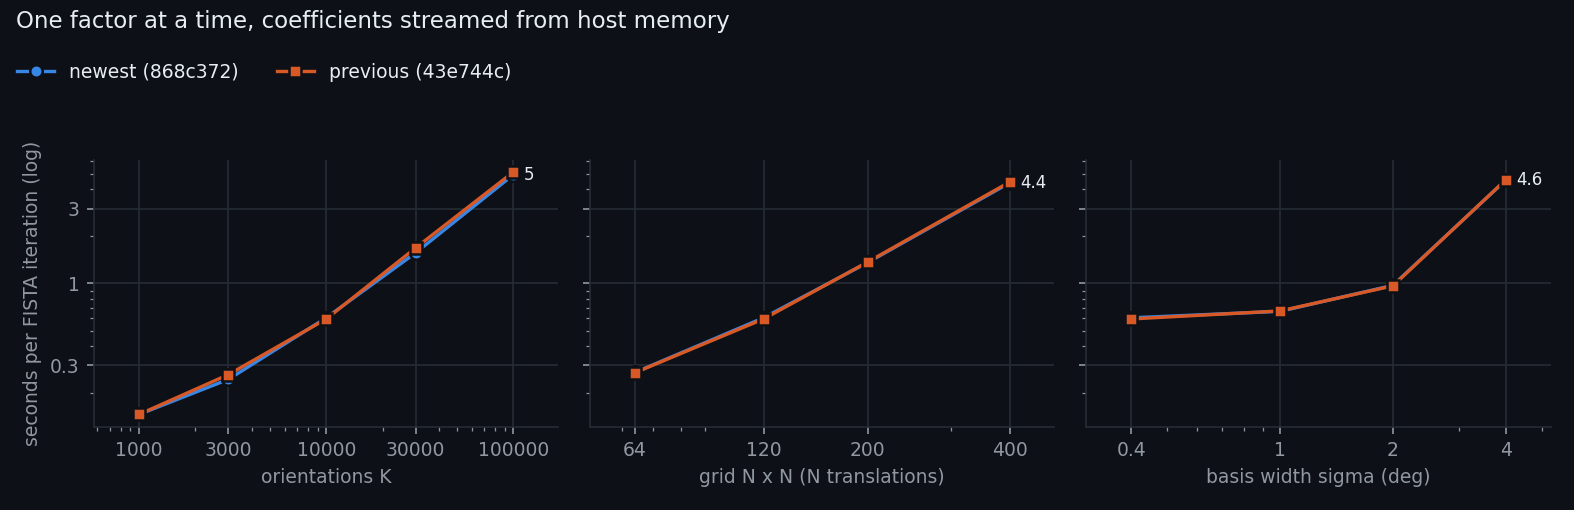
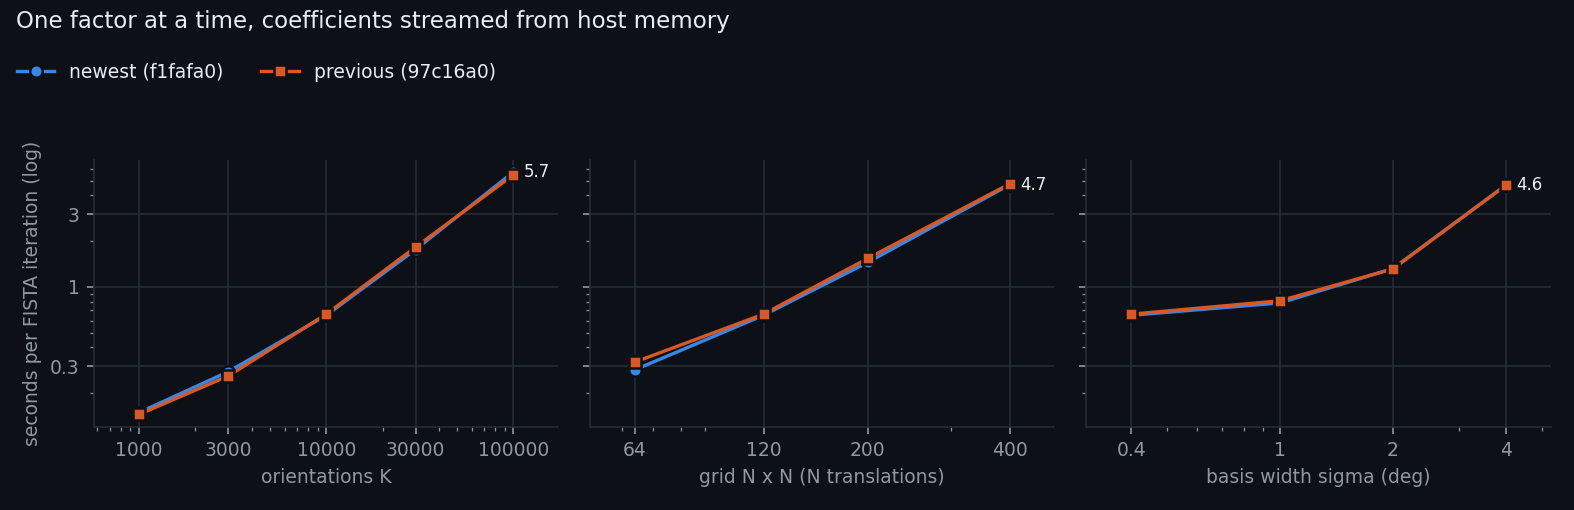
Benchmarks: 6a38c0b, 97c16a0 (4 sigma cut) and f1fafa0 (Gauss-Legendre quadrature), A40
Steady FISTA s/it, branch f1fafa0 vs main 97c16a0: 0.95-1.06x in every case (build +0.5-1.5 s).
The 4 sigma cut (97c16a0 vs 6a38c0b): sigma 0.4 +0-4 %, sigma 1 +18-21 %, sigma 2 +44 %,
K 100000 sigma 1 +30-52 % (fewer PF batches fit), sigma 4 (dense) unchanged.

diff --git a/benchmarks/report.py b/benchmarks/report.py
@@ -22,6 +22,12 @@ LABELS = {
     "5a402f0": "sparse PF matrix (`pf_mode=\"auto\"`)",
     "2b2b9b5": "field-of-view support constraint in FISTA",
     "cce2840": "64-bit indexing in the FISTA, prox and PF kernels",
+    "f1fafa0": "Gauss-Legendre quadrature over the (omega, eta) bins, the fewest nodes that keep every PF entry within "
+               "5 % of the peak (here 4 nodes at sigma 0.4 deg, 2 at 1 deg, 1 from 1.3 deg); candidate counts of "
+               "generated PF batches computed once",
+    "97c16a0": "PF Gaussians cut at 4 sigma (was 3; results change by ~0.8 %; 1.78 times the non-zeros)",
+    "6a38c0b": "main of 2026-10-26: pixel-footprint (trapezoid) projector kernel by default (results differ by ~2 %); "
+               "local basis, ODF basis, structure factors, Bragg-edge operator (not in these cases)",
     "18a7a06": "fused FISTA update: 2 coefficient arrays instead of 4",
     "56fe181": "FISTA coefficients streamed from host memory",
     "fbc8934": "NumPy API, (K, Ny, Nx) layout",

diff --git a/benchmarks/RESULTS.md b/benchmarks/RESULTS.md
@@ -10,6 +10,9 @@ Speed and peak memory of diffractom's texture-tomography reconstruction across v
 
 | version | date | what changed |
 |---|---|---|
+| `f1fafa0` | 2026-10-29 | Gauss-Legendre quadrature over the (omega, eta) bins, the fewest nodes that keep every PF entry within 5 % of the peak (here 4 nodes at sigma 0.4 deg, 2 at 1 deg, 1 from 1.3 deg); candidate counts of generated PF batches computed once |
+| `97c16a0` | 2026-10-29 | PF Gaussians cut at 4 sigma (was 3; results change by ~0.8 %; 1.78 times the non-zeros) |
+| `6a38c0b` | 2026-10-26 | main of 2026-10-26: pixel-footprint (trapezoid) projector kernel by default (results differ by ~2 %); local basis, ODF basis, structure factors, Bragg-edge operator (not in these cases) |
 | `868c372` | 2026-10-02 | FISTA (GPU arrays and streamed): next forward pass inside the adjoint pass; fused residual/norm/clip; PF forward skips empty rows (iterates unchanged) |
 | `43e744c` | 2026-10-02 | streamed FISTA: next forward pass inside the adjoint pass; fused residual/norm/clip; PF forward skips empty rows (iterates unchanged) |
 | `2c5f3f3` | 2026-10-02 | Fourier-slice projector (projector="fft"), the default above 400 x 400 pixels (results differ by ~1 %) |
@@ -25,47 +28,38 @@ Speed and peak memory of diffractom's texture-tomography reconstruction across v
 | `5a402f0` | 2026-09-28 | sparse PF matrix (`pf_mode="auto"`) |
 | `bec0dc7` | 2026-09-28 | before the speed-ups: dense PF matrix only |
 
-## Newest (`868c372`) against the version before it (`43e744c`)
+## Newest (`f1fafa0`) against the version before it (`97c16a0`)
 
 Seconds per FISTA iteration, steady state (without the first iteration, which includes the setup) where both versions recorded it (marked s), else the average of the two iterations; speed-up = previous / newest (below 1: slower). Single short runs: differences within about 10 % are noise.
 
 | case | mode | previous | newest | speed-up |
 |---|---|---:|---:|---:|
-| K = 1000, 120 x 120, sigma = 0.4 | gpu | 0.0685 | 0.0504 | 1.36x s |
-| K = 3000, 120 x 120, sigma = 0.4 | gpu | 0.143 | 0.105 | 1.37x s |
-| K = 10000, 64 x 64, sigma = 0.4 | gpu | 0.192 | 0.139 | 1.38x s |
-| K = 10000, 120 x 120, sigma = 0.4 | gpu | 0.443 | 0.326 | 1.36x s |
-| K = 10000, 120 x 120, sigma = 1 | gpu | 0.506 | 0.375 | 1.35x s |
-| K = 10000, 120 x 120, sigma = 2 | gpu | 0.829 | 0.6 | 1.38x s |
-| K = 10000, 120 x 120, sigma = 4 | gpu | 4.44 | 3.32 | 1.34x s |
-| K = 10000, 200 x 200, sigma = 0.4 | gpu | 1.03 | 0.755 | 1.36x s |
-| K = 10000, 400 x 400, sigma = 0.4 | gpu | 3.47 | 2.45 | 1.42x s |
-| K = 10000, 400 x 400, sigma = 2 | gpu | 4.77 | 3.45 | 1.38x s |
-| K = 10000, 400 x 400, sigma = 4 | gpu | 11.1 | 8.13 | 1.36x s |
+| K = 1000, 120 x 120, sigma = 0.4 | gpu | 0.055 | 0.0559 | 0.98x s |
+| K = 3000, 120 x 120, sigma = 0.4 | gpu | 0.11 | 0.112 | 0.99x s |
+| K = 10000, 64 x 64, sigma = 0.4 | gpu | 0.148 | 0.151 | 0.98x s |
+| K = 10000, 120 x 120, sigma = 0.4 | gpu | 0.356 | 0.363 | 0.98x s |
+| K = 10000, 120 x 120, sigma = 1 | gpu | 0.473 | 0.483 | 0.98x s |
+| K = 10000, 120 x 120, sigma = 2 | gpu | 0.904 | 0.904 | 1.00x s |
+| K = 10000, 120 x 120, sigma = 4 | gpu | 3.4 | 3.4 | 1.00x s |
+| K = 10000, 200 x 200, sigma = 0.4 | gpu | 0.82 | 0.832 | 0.98x s |
+| K = 10000, 400 x 400, sigma = 0.4 | gpu | 2.76 | 2.75 | 1.00x s |
 | K = 10000, 600 x 600, sigma = 0.4 | gpu | *array > largest GPU buffer* | *array > largest GPU buffer* |  |
-| K = 10000, 600 x 600, sigma = 2 | gpu | *array > largest GPU buffer* | *array > largest GPU buffer* |  |
-| K = 10000, 600 x 600, sigma = 4 | gpu | *skipped* | *skipped* |  |
-| K = 30000, 120 x 120, sigma = 0.4 | gpu | 1.31 | 0.961 | 1.36x s |
-| K = 100000, 120 x 120, sigma = 0.4 | gpu | 4.3 | 3.14 | 1.37x s |
-| K = 100000, 120 x 120, sigma = 1 | gpu | 5.6 | 4.03 | 1.39x s |
-| K = 1000, 120 x 120, sigma = 0.4 | stream | 0.0583 | 0.0579 | 1.01x s |
-| K = 3000, 120 x 120, sigma = 0.4 | stream | 0.115 | 0.114 | 1.00x s |
-| K = 10000, 64 x 64, sigma = 0.4 | stream | 0.144 | 0.145 | 1.00x s |
-| K = 10000, 120 x 120, sigma = 0.4 | stream | 0.337 | 0.337 | 1.00x s |
-| K = 10000, 120 x 120, sigma = 1 | stream | 0.386 | 0.385 | 1.00x s |
-| K = 10000, 120 x 120, sigma = 2 | stream | 0.608 | 0.61 | 1.00x s |
-| K = 10000, 120 x 120, sigma = 4 | stream | 3.36 | 3.34 | 1.01x s |
-| K = 10000, 200 x 200, sigma = 0.4 | stream | 0.779 | 0.779 | 1.00x s |
-| K = 10000, 400 x 400, sigma = 0.4 | stream | 2.49 | 2.49 | 1.00x s |
-| K = 10000, 400 x 400, sigma = 2 | stream | 3.4 | 3.39 | 1.00x s |
-| K = 10000, 400 x 400, sigma = 4 | stream | 8.28 | 8.24 | 1.01x s |
-| K = 10000, 600 x 600, sigma = 0.4 | stream | 3.49 | 3.42 | 1.02x s |
-| K = 10000, 600 x 600, sigma = 2 | stream | 4.45 | 4.44 | 1.00x s |
-| K = 10000, 600 x 600, sigma = 4 | stream | 10.6 | 10.5 | 1.01x s |
-| K = 20000, 1200 x 1200, sigma = 0.4 | stream | *out of memory* | 44.4 |  |
-| K = 30000, 120 x 120, sigma = 0.4 | stream | 0.977 | 0.974 | 1.00x s |
-| K = 100000, 120 x 120, sigma = 0.4 | stream | 3.18 | 3.18 | 1.00x s |
-| K = 100000, 120 x 120, sigma = 1 | stream | 3.9 | 3.89 | 1.00x s |
+| K = 30000, 120 x 120, sigma = 0.4 | gpu | 1.06 | 1.07 | 0.98x s |
+| K = 100000, 120 x 120, sigma = 0.4 | gpu | 3.47 | 3.53 | 0.98x s |
+| K = 100000, 120 x 120, sigma = 1 | gpu | 6.57 | 6.38 | 1.03x s |
+| K = 1000, 120 x 120, sigma = 0.4 | stream | 0.0619 | 0.0632 | 0.98x s |
+| K = 3000, 120 x 120, sigma = 0.4 | stream | 0.121 | 0.123 | 0.98x s |
+| K = 10000, 64 x 64, sigma = 0.4 | stream | 0.154 | 0.157 | 0.98x s |
+| K = 10000, 120 x 120, sigma = 0.4 | stream | 0.399 | 0.375 | 1.06x s |
+| K = 10000, 120 x 120, sigma = 1 | stream | 0.483 | 0.488 | 0.99x s |
+| K = 10000, 120 x 120, sigma = 2 | stream | 0.912 | 0.913 | 1.00x s |
+| K = 10000, 120 x 120, sigma = 4 | stream | 3.42 | 3.42 | 1.00x s |
+| K = 10000, 200 x 200, sigma = 0.4 | stream | 0.845 | 0.854 | 0.99x s |
+| K = 10000, 400 x 400, sigma = 0.4 | stream | 2.82 | 2.78 | 1.01x s |
+| K = 10000, 600 x 600, sigma = 0.4 | stream | 3.74 | 3.66 | 1.02x s |
+| K = 30000, 120 x 120, sigma = 0.4 | stream | 1.07 | 1.12 | 0.95x s |
+| K = 100000, 120 x 120, sigma = 0.4 | stream | 3.49 | 3.55 | 0.98x s |
+| K = 100000, 120 x 120, sigma = 1 | stream | 5.44 | 5.61 | 0.97x s |
 
 ## Every version on the base case
 
@@ -256,6 +250,81 @@ The time per iteration above includes a one-time setup in the first of the two F
 | `868c372` | K = 10000, 600 x 600, sigma = 2 | stream | 11.7 | 4.44 |
 | `868c372` | K = 10000, 600 x 600, sigma = 4 | stream | 23.6 | 10.5 |
 | `868c372` | K = 20000, 1200 x 1200, sigma = 0.4 | stream | 55.9 | 32.7 |
+| `6a38c0b` | K = 10000, 64 x 64, sigma = 0.4 | gpu | 0.309 | 0.143 |
+| `6a38c0b` | K = 10000, 64 x 64, sigma = 0.4 | stream | 0.465 | 0.149 |
+| `6a38c0b` | K = 1000, 120 x 120, sigma = 0.4 | gpu | 0.112 | 0.0537 |
+| `6a38c0b` | K = 1000, 120 x 120, sigma = 0.4 | stream | 0.264 | 0.0621 |
+| `6a38c0b` | K = 3000, 120 x 120, sigma = 0.4 | gpu | 0.231 | 0.109 |
+| `6a38c0b` | K = 3000, 120 x 120, sigma = 0.4 | stream | 0.427 | 0.118 |
+| `6a38c0b` | K = 10000, 120 x 120, sigma = 0.4 | gpu | 0.726 | 0.35 |
+| `6a38c0b` | K = 10000, 120 x 120, sigma = 0.4 | stream | 1.22 | 0.361 |
+| `6a38c0b` | K = 10000, 120 x 120, sigma = 1 | gpu | 0.817 | 0.4 |
+| `6a38c0b` | K = 10000, 120 x 120, sigma = 1 | stream | 1.16 | 0.412 |
+| `6a38c0b` | K = 10000, 120 x 120, sigma = 2 | gpu | 1.32 | 0.627 |
+| `6a38c0b` | K = 10000, 120 x 120, sigma = 2 | stream | 1.66 | 0.633 |
+| `6a38c0b` | K = 10000, 120 x 120, sigma = 4 | gpu | 6.71 | 3.38 |
+| `6a38c0b` | K = 10000, 120 x 120, sigma = 4 | stream | 6.99 | 3.4 |
+| `6a38c0b` | K = 30000, 120 x 120, sigma = 0.4 | gpu | 2.15 | 1.03 |
+| `6a38c0b` | K = 30000, 120 x 120, sigma = 0.4 | stream | 2.89 | 1.04 |
+| `6a38c0b` | K = 100000, 120 x 120, sigma = 0.4 | gpu | 7.08 | 3.39 |
+| `6a38c0b` | K = 100000, 120 x 120, sigma = 0.4 | stream | 9.06 | 3.41 |
+| `6a38c0b` | K = 100000, 120 x 120, sigma = 1 | gpu | 9.25 | 4.32 |
+| `6a38c0b` | K = 100000, 120 x 120, sigma = 1 | stream | 10.9 | 4.17 |
+| `6a38c0b` | K = 10000, 200 x 200, sigma = 0.4 | gpu | 1.69 | 0.805 |
+| `6a38c0b` | K = 10000, 200 x 200, sigma = 0.4 | stream | 2.5 | 0.84 |
+| `6a38c0b` | K = 10000, 400 x 400, sigma = 0.4 | gpu | 5.94 | 2.76 |
+| `6a38c0b` | K = 10000, 400 x 400, sigma = 0.4 | stream | 8.49 | 2.79 |
+| `6a38c0b` | K = 10000, 600 x 600, sigma = 0.4 | stream | 10.9 | 3.87 |
+| `97c16a0` | K = 10000, 64 x 64, sigma = 0.4 | gpu | 0.316 | 0.148 |
+| `97c16a0` | K = 10000, 64 x 64, sigma = 0.4 | stream | 0.517 | 0.154 |
+| `97c16a0` | K = 1000, 120 x 120, sigma = 0.4 | gpu | 0.115 | 0.055 |
+| `97c16a0` | K = 1000, 120 x 120, sigma = 0.4 | stream | 0.263 | 0.0619 |
+| `97c16a0` | K = 3000, 120 x 120, sigma = 0.4 | gpu | 0.235 | 0.11 |
+| `97c16a0` | K = 3000, 120 x 120, sigma = 0.4 | stream | 0.45 | 0.121 |
+| `97c16a0` | K = 10000, 120 x 120, sigma = 0.4 | gpu | 0.739 | 0.356 |
+| `97c16a0` | K = 10000, 120 x 120, sigma = 0.4 | stream | 1.1 | 0.399 |
+| `97c16a0` | K = 10000, 120 x 120, sigma = 1 | gpu | 0.959 | 0.473 |
+| `97c16a0` | K = 10000, 120 x 120, sigma = 1 | stream | 1.32 | 0.483 |
+| `97c16a0` | K = 10000, 120 x 120, sigma = 2 | gpu | 1.71 | 0.904 |
+| `97c16a0` | K = 10000, 120 x 120, sigma = 2 | stream | 2.03 | 0.912 |
+| `97c16a0` | K = 10000, 120 x 120, sigma = 4 | gpu | 6.7 | 3.4 |
+| `97c16a0` | K = 10000, 120 x 120, sigma = 4 | stream | 7.05 | 3.42 |
+| `97c16a0` | K = 30000, 120 x 120, sigma = 0.4 | gpu | 2.19 | 1.06 |
+| `97c16a0` | K = 30000, 120 x 120, sigma = 0.4 | stream | 3.23 | 1.07 |
+| `97c16a0` | K = 100000, 120 x 120, sigma = 0.4 | gpu | 7.21 | 3.47 |
+| `97c16a0` | K = 100000, 120 x 120, sigma = 0.4 | stream | 9.18 | 3.49 |
+| `97c16a0` | K = 100000, 120 x 120, sigma = 1 | gpu | 14.0 | 6.57 |
+| `97c16a0` | K = 100000, 120 x 120, sigma = 1 | stream | 13.8 | 5.44 |
+| `97c16a0` | K = 10000, 200 x 200, sigma = 0.4 | gpu | 1.71 | 0.82 |
+| `97c16a0` | K = 10000, 200 x 200, sigma = 0.4 | stream | 2.79 | 0.845 |
+| `97c16a0` | K = 10000, 400 x 400, sigma = 0.4 | gpu | 5.96 | 2.76 |
+| `97c16a0` | K = 10000, 400 x 400, sigma = 0.4 | stream | 8.45 | 2.82 |
+| `97c16a0` | K = 10000, 600 x 600, sigma = 0.4 | stream | 11.8 | 3.74 |
+| `f1fafa0` | K = 10000, 64 x 64, sigma = 0.4 | gpu | 0.321 | 0.151 |
+| `f1fafa0` | K = 10000, 64 x 64, sigma = 0.4 | stream | 0.475 | 0.157 |
+| `f1fafa0` | K = 1000, 120 x 120, sigma = 0.4 | gpu | 0.116 | 0.0559 |
+| `f1fafa0` | K = 1000, 120 x 120, sigma = 0.4 | stream | 0.265 | 0.0632 |
+| `f1fafa0` | K = 3000, 120 x 120, sigma = 0.4 | gpu | 0.237 | 0.112 |
+| `f1fafa0` | K = 3000, 120 x 120, sigma = 0.4 | stream | 0.457 | 0.123 |
+| `f1fafa0` | K = 10000, 120 x 120, sigma = 0.4 | gpu | 0.748 | 0.363 |
+| `f1fafa0` | K = 10000, 120 x 120, sigma = 0.4 | stream | 1.13 | 0.375 |
+| `f1fafa0` | K = 10000, 120 x 120, sigma = 1 | gpu | 0.963 | 0.483 |
+| `f1fafa0` | K = 10000, 120 x 120, sigma = 1 | stream | 1.29 | 0.488 |
+| `f1fafa0` | K = 10000, 120 x 120, sigma = 2 | gpu | 1.71 | 0.904 |
+| `f1fafa0` | K = 10000, 120 x 120, sigma = 2 | stream | 2.05 | 0.913 |
+| `f1fafa0` | K = 10000, 120 x 120, sigma = 4 | gpu | 6.71 | 3.4 |
+| `f1fafa0` | K = 10000, 120 x 120, sigma = 4 | stream | 7.02 | 3.42 |
+| `f1fafa0` | K = 30000, 120 x 120, sigma = 0.4 | gpu | 2.22 | 1.07 |
+| `f1fafa0` | K = 30000, 120 x 120, sigma = 0.4 | stream | 2.93 | 1.12 |
+| `f1fafa0` | K = 100000, 120 x 120, sigma = 0.4 | gpu | 7.3 | 3.53 |
+| `f1fafa0` | K = 100000, 120 x 120, sigma = 0.4 | stream | 9.78 | 3.55 |
+| `f1fafa0` | K = 100000, 120 x 120, sigma = 1 | gpu | 13.5 | 6.38 |
+| `f1fafa0` | K = 100000, 120 x 120, sigma = 1 | stream | 14.0 | 5.61 |
+| `f1fafa0` | K = 10000, 200 x 200, sigma = 0.4 | gpu | 1.83 | 0.832 |
+| `f1fafa0` | K = 10000, 200 x 200, sigma = 0.4 | stream | 2.56 | 0.854 |
+| `f1fafa0` | K = 10000, 400 x 400, sigma = 0.4 | gpu | 6.07 | 2.75 |
+| `f1fafa0` | K = 10000, 400 x 400, sigma = 0.4 | stream | 8.42 | 2.78 |
+| `f1fafa0` | K = 10000, 600 x 600, sigma = 0.4 | stream | 11.1 | 3.66 |
 
 ## Arrays on the GPU
 
@@ -270,6 +339,9 @@ Seconds per FISTA iteration; the fastest version per column in bold; * the base 
 
 | version | 1000 | 3000 | 10000 * | 30000 | 100000 |
 |---|---:|---:|---:|---:|---:|
+| `f1fafa0` | 0.0877 | 0.166 | 0.507 | 1.48 | 4.83 |
+| `97c16a0` | 0.0857 | 0.168 | 0.499 | 1.46 | 4.75 |
+| `6a38c0b` | 0.0849 | 0.176 | 0.5 | 1.43 | 4.66 |
 | `868c372` | **0.0807** | **0.159** | 0.471 | 1.35 | 4.37 |
 | `43e744c` | 0.0843 | 0.161 | **0.467** | **1.34** | 4.35 |
 | `2c5f3f3` | 0.0895 | 0.164 | 0.47 | 1.35 | **4.35** |
@@ -289,6 +361,9 @@ Seconds per FISTA iteration; the fastest version per column in bold; * the base 
 
 | version | 64 | 120 * | 200 | 400 |
 |---|---:|---:|---:|---:|
+| `f1fafa0` | 0.223 | 0.507 | 1.19 | 3.88 |
+| `97c16a0` | 0.224 | 0.499 | 1.14 | 3.85 |
+| `6a38c0b` | 0.216 | 0.5 | 1.12 | 3.84 |
 | `868c372` | **0.211** | 0.471 | 1.05 | 3.5 |
 | `43e744c` | 0.215 | **0.467** | **1.05** | 3.49 |
 | `2c5f3f3` | 0.214 | 0.47 | 1.06 | 3.58 |
@@ -308,6 +383,9 @@ Seconds per FISTA iteration; the fastest version per column in bold; * the base 
 
 | version | 0.4 deg * | 1 deg | 2 deg | 4 deg |
 |---|---:|---:|---:|---:|
+| `f1fafa0` | 0.507 | 0.665 | 1.2 | 4.52 |
+| `97c16a0` | 0.499 | 0.651 | 1.19 | 4.52 |
+| `6a38c0b` | 0.5 | 0.564 | 0.883 | 4.51 |
 | `868c372` | 0.471 | **0.524** | **0.842** | 4.43 |
 | `43e744c` | **0.467** | 0.528 | 0.85 | 4.43 |
 | `2c5f3f3` | 0.47 | 0.527 | 0.931 | **4.42** |
@@ -336,8 +414,11 @@ Seconds per FISTA iteration; the fastest version per column in bold; * the base 
 
 | version | 1000 | 3000 | 10000 * | 30000 | 100000 |
 |---|---:|---:|---:|---:|---:|
-| `868c372` | 0.146 | **0.244** | 0.603 | **1.57** | **4.95** |
-| `43e744c` | **0.146** | 0.262 | **0.593** | 1.68 | 5.15 |
+| `f1fafa0` | 0.149 | 0.277 | 0.65 | 1.76 | 5.7 |
+| `97c16a0` | **0.145** | 0.259 | 0.661 | 1.83 | 5.46 |
+| `6a38c0b` | 0.145 | **0.239** | 0.696 | 1.7 | 5.41 |
+| `868c372` | 0.146 | 0.244 | 0.603 | **1.57** | **4.95** |
+| `43e744c` | 0.146 | 0.262 | **0.593** | 1.68 | 5.15 |
 | `2c5f3f3` | 0.173 | 0.268 | 0.661 | 1.86 | 5.34 |
 | `8540fc1` | 0.28 | 0.3 | 0.728 | 1.84 | 5.53 |
 | `9702663` | 0.224 | 0.322 | 0.721 | 1.97 | 5.93 |
@@ -349,6 +430,9 @@ Seconds per FISTA iteration; the fastest version per column in bold; * the base 
 
 | version | 64 | 120 * | 200 | 400 |
 |---|---:|---:|---:|---:|
+| `f1fafa0` | 0.285 | 0.65 | 1.45 | 4.7 |
+| `97c16a0` | 0.32 | 0.661 | 1.54 | 4.75 |
+| `6a38c0b` | 0.273 | 0.696 | 1.43 | 4.73 |
 | `868c372` | 0.27 | 0.603 | **1.36** | **4.38** |
 | `43e744c` | **0.269** | **0.593** | 1.37 | 4.43 |
 | `2c5f3f3` | 0.297 | 0.661 | 1.5 | 4.76 |
@@ -362,6 +446,9 @@ Seconds per FISTA iteration; the fastest version per column in bold; * the base 
 
 | version | 0.4 deg * | 1 deg | 2 deg | 4 deg |
 |---|---:|---:|---:|---:|
+| `f1fafa0` | 0.65 | 0.784 | 1.32 | 4.65 |
+| `97c16a0` | 0.661 | 0.81 | 1.31 | 4.66 |
+| `6a38c0b` | 0.696 | 0.684 | 1.01 | 4.63 |
 | `868c372` | 0.603 | **0.664** | 0.972 | **4.56** |
 | `43e744c` | **0.593** | 0.668 | **0.965** | 4.58 |
 | `2c5f3f3` | 0.661 | 0.702 | 1.06 | 4.56 |
@@ -382,6 +469,9 @@ Seconds per FISTA iteration; the fastest version per column in bold; * the base 
 
 | version | 1000 | 3000 | 10000 * | 30000 | 100000 |
 |---|---:|---:|---:|---:|---:|
+| `f1fafa0` | 3.1 | 3.6 | 5.2 | 10.3 | 29.3 |
+| `97c16a0` | 3.0 | 3.5 | 4.9 | 9.6 | 27.0 |
+| `6a38c0b` | 3.0 | 3.4 | 4.6 | **8.6** | **23.5** |
 | `868c372` | 3.0 | 3.4 | 4.6 | **8.6** | **23.5** |
 | `43e744c` | **2.2** | **2.7** | **4.3** | **8.6** | **23.5** |
 | `2c5f3f3` | **2.2** | **2.7** | **4.3** | **8.6** | **23.5** |
@@ -401,6 +491,9 @@ Seconds per FISTA iteration; the fastest version per column in bold; * the base 
 
 | version | 1000 | 3000 | 10000 * | 30000 | 100000 |
 |---|---:|---:|---:|---:|---:|
+| `f1fafa0` | 1.5 | 1.8 | 2.9 | 6.2 | 17.8 |
+| `97c16a0` | 1.4 | 1.7 | 2.9 | 6.2 | 17.8 |
+| `6a38c0b` | 1.4 | 1.7 | 2.9 | 6.2 | 17.8 |
 | `868c372` | 1.3 | 1.7 | 2.8 | 6.2 | 17.8 |
 | `43e744c` | 1.3 | 1.7 | 2.8 | 6.2 | 17.8 |
 | `2c5f3f3` | 1.3 | 1.7 | 2.8 | 6.1 | 17.8 |
@@ -420,6 +513,9 @@ Seconds per FISTA iteration; the fastest version per column in bold; * the base 
 
 | version | 1000 | 3000 | 10000 * | 30000 | 100000 |
 |---|---:|---:|---:|---:|---:|
+| `f1fafa0` | 3.2 | 3.8 | 4.8 | 7.0 | 14.8 |
+| `97c16a0` | 3.1 | 3.7 | 4.6 | 6.3 | 12.4 |
+| `6a38c0b` | 3.1 | 3.6 | 4.2 | 5.3 | 9.0 |
 | `868c372` | 3.1 | 3.6 | 4.2 | 5.3 | 9.0 |
 | `43e744c` | 3.1 | 3.6 | 4.2 | 5.3 | 9.0 |
 | `2c5f3f3` | **2.3** | 2.8 | 3.4 | **4.5** | **8.2** |
@@ -433,6 +529,9 @@ Seconds per FISTA iteration; the fastest version per column in bold; * the base 
 
 | version | 1000 | 3000 | 10000 * | 30000 | 100000 |
 |---|---:|---:|---:|---:|---:|
+| `f1fafa0` | 2.2 | 2.5 | 4.9 | 7.5 | 14.9 |
+| `97c16a0` | 2.1 | 2.4 | 4.9 | 7.4 | 14.9 |
+| `6a38c0b` | 2.1 | 2.4 | 4.9 | 7.3 | 14.8 |
 | `868c372` | 2.1 | 2.4 | 4.8 | 7.4 | 14.8 |
 | `43e744c` | 2.1 | 2.4 | 4.8 | 7.3 | 14.8 |
 | `2c5f3f3` | 2.1 | 2.4 | 4.8 | 7.4 | 14.8 |
@@ -448,6 +547,9 @@ Seconds per FISTA iteration (and how the PF matrix was applied: dense; sparse wi
 
 | version | K = 10000, 400 x 400, sigma = 2, gpu | K = 10000, 400 x 400, sigma = 2, stream | K = 10000, 400 x 400, sigma = 4, gpu | K = 10000, 400 x 400, sigma = 4, stream | K = 10000, 600 x 600, sigma = 0.4, gpu | K = 10000, 600 x 600, sigma = 0.4, stream | K = 10000, 600 x 600, sigma = 2, gpu | K = 10000, 600 x 600, sigma = 2, stream | K = 10000, 600 x 600, sigma = 4, gpu | K = 10000, 600 x 600, sigma = 4, stream | K = 20000, 1200 x 1200, sigma = 0.4, gpu | K = 20000, 1200 x 1200, sigma = 0.4, stream | K = 100000, 120 x 120, sigma = 1, gpu | K = 100000, 120 x 120, sigma = 1, stream |
 |---|---:|---:|---:|---:|---:|---:|---:|---:|---:|---:|---:|---:|---:|---:|
+| `f1fafa0` |  |  |  |  | *array > largest GPU buffer* | 6.2 (sparse, both) |  |  |  |  |  |  | 8.82 (generated, adjoint, 53 of 113 batches) | 8.47 (generated, adjoint, 91 of 113 batches) |
+| `97c16a0` |  |  |  |  | *array > largest GPU buffer* | 6.46 (sparse, both) |  |  |  |  |  |  | 9.1 (generated, adjoint, 55 of 106 batches) | 8.31 (generated, adjoint, 93 of 106 batches) |
+| `6a38c0b` |  |  |  |  | *array > largest GPU buffer* | 6.25 (sparse, both) |  |  |  |  |  |  | 6.02 (generated, adjoint, 90 of 98 batches) | 6.53 (sparse, adjoint) |
 | `868c372` | 4.78 (sparse, adjoint) | 5.49 (sparse, both) | 10.9 (dense) | 11.6 (dense) | *array > largest GPU buffer* | 5.56 (sparse, both) | *array > largest GPU buffer* | 6.9 (sparse, both) | *skipped* | 14.9 (dense) |  | 44.4 (sparse, both) | 5.67 (generated, adjoint, 92 of 98 batches) | 6.25 (sparse, adjoint) |
 | `43e744c` | 4.77 (sparse, adjoint) | 5.5 (sparse, both) | 11.0 (dense) | 11.9 (dense) | *array > largest GPU buffer* | 5.62 (sparse, both) | *array > largest GPU buffer* | 6.9 (sparse, both) | *skipped* | 15.0 (dense) |  | *out of memory* | 5.65 (generated, adjoint, 92 of 98 batches) | 6.27 (sparse, adjoint) |
 | `2c5f3f3` | 4.74 (sparse, adjoint) | 5.69 (sparse, both) | 11.0 (dense) | 11.8 (dense) | *array > largest GPU buffer* | 6.7 (sparse, both) | *array > largest GPU buffer* | 7.41 (sparse, both) | *skipped* | 15.3 (dense) |  | 50.5 (sparse, both) | 5.63 (generated, adjoint, 92 of 98 batches) | 6.1 (sparse, adjoint) |
@@ -463,6 +565,84 @@ Seconds per FISTA iteration (and how the PF matrix was applied: dense; sparse wi
 
 | version | mode | K | N | sigma | status | PF | build (s) | forward (s) | adjoint (s) | FISTA / it (s) | GPU (GiB) | host (GiB) |
 |---|---|---:|---:|---:|---|---|---:|---:|---:|---:|---:|---:|
+| `f1fafa0` | gpu | 1000 | 120 | 0.4 | ok | sparse, both | 2.24 | 0.0684 | 0.0317 | 0.0877 | 3.11 | 1.49 |
+| `f1fafa0` | gpu | 3000 | 120 | 0.4 | ok | sparse, both | 1.94 | 0.108 | 0.0644 | 0.166 | 3.63 | 1.77 |
+| `f1fafa0` | gpu | 10000 | 64 | 0.4 | ok | sparse, both | 2.37 | 0.141 | 0.0903 | 0.223 | 3.17 | 1.39 |
+| `f1fafa0` | gpu | 10000 | 120 | 0.4 | ok | sparse, both | 2.51 | 0.283 | 0.221 | 0.507 | 5.24 | 2.92 |
+| `f1fafa0` | gpu | 10000 | 120 | 1 | ok | sparse, both | 2.06 | 0.337 | 0.309 | 0.665 | 9.04 | 2.88 |
+| `f1fafa0` | gpu | 10000 | 120 | 2 | ok | sparse, both | 3.31 | 0.557 | 0.622 | 1.2 | 22.0 | 2.91 |
+| `f1fafa0` | gpu | 10000 | 120 | 4 | ok | dense | 1.38 | 2.21 | 2.26 | 4.52 | 5.89 | 2.86 |
+| `f1fafa0` | gpu | 10000 | 200 | 0.4 | ok | sparse, both | 2.38 | 0.615 | 0.497 | 1.19 | 9.07 | 6.32 |
+| `f1fafa0` | gpu | 10000 | 400 | 0.4 | ok | sparse, both | 2.25 | 2.02 | 1.61 | 3.88 | 25.4 | 21.1 |
+| `f1fafa0` | gpu | 10000 | 600 | 0.4 | oom | generated, none | 2.79 |  |  |  | 0.373 | 4.61 |
+| `f1fafa0` | gpu | 30000 | 120 | 0.4 | ok | sparse, both | 3.47 | 0.781 | 0.662 | 1.48 | 10.3 | 6.23 |
+| `f1fafa0` | gpu | 100000 | 120 | 0.4 | ok | sparse, both | 7.15 | 2.47 | 2.18 | 4.83 | 29.3 | 17.8 |
+| `f1fafa0` | gpu | 100000 | 120 | 1 | ok | generated, adjoint, 53 of 113 batches | 7.04 | 4.71 | 3.87 | 8.82 | 31.6 | 17.8 |
+| `f1fafa0` | stream | 1000 | 120 | 0.4 | ok | sparse, both | 1.72 | 0.383 | 0.175 | 0.149 | 3.21 | 2.21 |
+| `f1fafa0` | stream | 3000 | 120 | 0.4 | ok | sparse, both | 2.05 | 0.496 | 0.174 | 0.277 | 3.8 | 2.49 |
+| `f1fafa0` | stream | 10000 | 64 | 0.4 | ok | sparse, both | 2.59 | 0.353 | 0.151 | 0.285 | 3.05 | 1.92 |
+| `f1fafa0` | stream | 10000 | 120 | 0.4 | ok | sparse, both | 2.23 | 0.723 | 0.333 | 0.65 | 4.84 | 4.93 |
+| `f1fafa0` | stream | 10000 | 120 | 1 | ok | sparse, both | 2.28 | 0.77 | 0.416 | 0.784 | 8.55 | 4.73 |
+| `f1fafa0` | stream | 10000 | 120 | 2 | ok | sparse, both | 2.55 | 0.866 | 0.766 | 1.32 | 21.1 | 4.56 |
+| `f1fafa0` | stream | 10000 | 120 | 4 | ok | dense | 1.55 | 2.7 | 2.39 | 4.65 | 5.48 | 4.55 |
+| `f1fafa0` | stream | 10000 | 200 | 0.4 | ok | sparse, both | 2.32 | 1.58 | 0.683 | 1.45 | 7.94 | 8.23 |
+| `f1fafa0` | stream | 10000 | 400 | 0.4 | ok | sparse, both | 2.4 | 3.83 | 2.33 | 4.7 | 13.7 | 19.7 |
+| `f1fafa0` | stream | 10000 | 600 | 0.4 | ok | sparse, both | 3.15 | 4.47 | 2.56 | 6.2 | 20.8 | 37.0 |
+| `f1fafa0` | stream | 30000 | 120 | 0.4 | ok | sparse, both | 3.41 | 1.23 | 0.834 | 1.76 | 7.05 | 7.47 |
+| `f1fafa0` | stream | 100000 | 120 | 0.4 | ok | sparse, both | 7.11 | 2.88 | 2.29 | 5.7 | 14.8 | 14.9 |
+| `f1fafa0` | stream | 100000 | 120 | 1 | ok | generated, adjoint, 91 of 113 batches | 7.39 | 4.7 | 3.44 | 8.47 | 25.2 | 14.8 |
+| `97c16a0` | gpu | 1000 | 120 | 0.4 | ok | sparse, both | 1.6 | 0.0636 | 0.0309 | 0.0857 | 3.03 | 1.41 |
+| `97c16a0` | gpu | 3000 | 120 | 0.4 | ok | sparse, both | 1.29 | 0.108 | 0.0632 | 0.168 | 3.52 | 1.7 |
+| `97c16a0` | gpu | 10000 | 64 | 0.4 | ok | sparse, both | 1.57 | 0.133 | 0.0876 | 0.224 | 2.88 | 1.32 |
+| `97c16a0` | gpu | 10000 | 120 | 0.4 | ok | sparse, both | 1.53 | 0.276 | 0.217 | 0.499 | 4.95 | 2.86 |
+| `97c16a0` | gpu | 10000 | 120 | 1 | ok | sparse, both | 1.85 | 0.343 | 0.299 | 0.651 | 8.63 | 2.86 |
+| `97c16a0` | gpu | 10000 | 120 | 2 | ok | sparse, both | 2.99 | 0.548 | 0.622 | 1.19 | 22.0 | 2.86 |
+| `97c16a0` | gpu | 10000 | 120 | 4 | ok | dense | 1.3 | 2.21 | 2.26 | 4.52 | 5.89 | 2.86 |
+| `97c16a0` | gpu | 10000 | 200 | 0.4 | ok | sparse, both | 1.55 | 0.615 | 0.49 | 1.14 | 8.78 | 6.26 |
+| `97c16a0` | gpu | 10000 | 400 | 0.4 | ok | sparse, both | 1.49 | 2.09 | 1.6 | 3.85 | 25.1 | 21.0 |
+| `97c16a0` | gpu | 10000 | 600 | 0.4 | oom | generated, none | 2.48 |  |  |  | 0.312 | 4.55 |
+| `97c16a0` | gpu | 30000 | 120 | 0.4 | ok | sparse, both | 2.55 | 0.772 | 0.648 | 1.46 | 9.58 | 6.17 |
+| `97c16a0` | gpu | 100000 | 120 | 0.4 | ok | sparse, both | 5.66 | 2.45 | 2.13 | 4.75 | 27.0 | 17.8 |
+| `97c16a0` | gpu | 100000 | 120 | 1 | ok | generated, adjoint, 55 of 106 batches | 6.41 | 4.9 | 3.97 | 9.1 | 31.7 | 17.8 |
+| `97c16a0` | stream | 1000 | 120 | 0.4 | ok | sparse, both | 1.24 | 0.365 | 0.138 | 0.145 | 3.13 | 2.15 |
+| `97c16a0` | stream | 3000 | 120 | 0.4 | ok | sparse, both | 1.3 | 0.51 | 0.18 | 0.259 | 3.69 | 2.42 |
+| `97c16a0` | stream | 10000 | 64 | 0.4 | ok | sparse, both | 1.54 | 0.33 | 0.169 | 0.32 | 2.76 | 1.86 |
+| `97c16a0` | stream | 10000 | 120 | 0.4 | ok | sparse, both | 1.64 | 0.741 | 0.331 | 0.661 | 4.55 | 4.87 |
+| `97c16a0` | stream | 10000 | 120 | 1 | ok | sparse, both | 1.84 | 0.773 | 0.424 | 0.81 | 8.19 | 4.84 |
+| `97c16a0` | stream | 10000 | 120 | 2 | ok | sparse, both | 2.66 | 0.862 | 0.728 | 1.31 | 21.1 | 4.55 |
+| `97c16a0` | stream | 10000 | 120 | 4 | ok | dense | 1.33 | 2.52 | 2.37 | 4.66 | 5.48 | 4.56 |
+| `97c16a0` | stream | 10000 | 200 | 0.4 | ok | sparse, both | 1.57 | 1.56 | 0.675 | 1.54 | 7.65 | 8.17 |
+| `97c16a0` | stream | 10000 | 400 | 0.4 | ok | sparse, both | 1.69 | 3.83 | 2.01 | 4.75 | 13.5 | 19.7 |
+| `97c16a0` | stream | 10000 | 600 | 0.4 | ok | sparse, both | 2.45 | 4.74 | 2.61 | 6.46 | 20.5 | 36.9 |
+| `97c16a0` | stream | 30000 | 120 | 0.4 | ok | sparse, both | 2.63 | 1.49 | 0.758 | 1.83 | 6.3 | 7.38 |
+| `97c16a0` | stream | 100000 | 120 | 0.4 | ok | sparse, both | 5.63 | 2.93 | 2.24 | 5.46 | 12.4 | 14.9 |
+| `97c16a0` | stream | 100000 | 120 | 1 | ok | generated, adjoint, 93 of 106 batches | 6.95 | 4.62 | 3.3 | 8.31 | 25.2 | 14.8 |
+| `6a38c0b` | gpu | 1000 | 120 | 0.4 | ok | sparse, both | 1.54 | 0.0634 | 0.03 | 0.0849 | 3.01 | 1.37 |
+| `6a38c0b` | gpu | 3000 | 120 | 0.4 | ok | sparse, both | 1.23 | 0.108 | 0.0618 | 0.176 | 3.43 | 1.7 |
+| `6a38c0b` | gpu | 10000 | 64 | 0.4 | ok | sparse, both | 1.51 | 0.184 | 0.0844 | 0.216 | 2.54 | 1.32 |
+| `6a38c0b` | gpu | 10000 | 120 | 0.4 | ok | sparse, both | 1.51 | 0.277 | 0.212 | 0.5 | 4.61 | 2.85 |
+| `6a38c0b` | gpu | 10000 | 120 | 1 | ok | sparse, both | 1.8 | 0.303 | 0.248 | 0.564 | 6.7 | 2.85 |
+| `6a38c0b` | gpu | 10000 | 120 | 2 | ok | sparse, both | 2.18 | 0.49 | 0.382 | 0.883 | 14.1 | 2.85 |
+| `6a38c0b` | gpu | 10000 | 120 | 4 | ok | dense | 1.34 | 2.19 | 2.24 | 4.51 | 5.89 | 2.86 |
+| `6a38c0b` | gpu | 10000 | 200 | 0.4 | ok | sparse, both | 1.58 | 0.602 | 0.478 | 1.12 | 8.44 | 6.26 |
+| `6a38c0b` | gpu | 10000 | 400 | 0.4 | ok | sparse, both | 1.59 | 2.07 | 1.61 | 3.84 | 24.8 | 21.0 |
+| `6a38c0b` | gpu | 10000 | 600 | 0.4 | oom | generated, none | 2.24 |  |  |  | 0.312 | 4.55 |
+| `6a38c0b` | gpu | 30000 | 120 | 0.4 | ok | sparse, both | 2.42 | 0.761 | 0.63 | 1.43 | 8.56 | 6.17 |
+| `6a38c0b` | gpu | 100000 | 120 | 0.4 | ok | sparse, both | 5.42 | 2.41 | 2.08 | 4.66 | 23.5 | 17.8 |
+| `6a38c0b` | gpu | 100000 | 120 | 1 | ok | generated, adjoint, 90 of 98 batches | 6.57 | 3.25 | 2.58 | 6.02 | 31.2 | 17.8 |
+| `6a38c0b` | stream | 1000 | 120 | 0.4 | ok | sparse, both | 1.15 | 0.503 | 0.138 | 0.145 | 3.11 | 2.14 |
+| `6a38c0b` | stream | 3000 | 120 | 0.4 | ok | sparse, both | 1.28 | 0.502 | 0.173 | 0.239 | 3.6 | 2.42 |
+| `6a38c0b` | stream | 10000 | 64 | 0.4 | ok | sparse, both | 1.56 | 0.322 | 0.148 | 0.273 | 2.42 | 1.86 |
+| `6a38c0b` | stream | 10000 | 120 | 0.4 | ok | sparse, both | 1.54 | 0.72 | 0.322 | 0.696 | 4.21 | 4.87 |
+| `6a38c0b` | stream | 10000 | 120 | 1 | ok | sparse, both | 1.68 | 0.747 | 0.359 | 0.684 | 6.31 | 4.79 |
+| `6a38c0b` | stream | 10000 | 120 | 2 | ok | sparse, both | 2.19 | 0.841 | 0.499 | 1.01 | 13.3 | 4.63 |
+| `6a38c0b` | stream | 10000 | 120 | 4 | ok | dense | 1.3 | 2.53 | 2.35 | 4.63 | 5.03 | 4.56 |
+| `6a38c0b` | stream | 10000 | 200 | 0.4 | ok | sparse, both | 1.52 | 1.57 | 0.717 | 1.43 | 7.31 | 8.17 |
+| `6a38c0b` | stream | 10000 | 400 | 0.4 | ok | sparse, both | 1.5 | 3.91 | 2.29 | 4.73 | 13.3 | 19.8 |
+| `6a38c0b` | stream | 10000 | 600 | 0.4 | ok | sparse, both | 2.39 | 4.54 | 2.5 | 6.25 | 20.3 | 36.9 |
+| `6a38c0b` | stream | 30000 | 120 | 0.4 | ok | sparse, both | 2.46 | 1.22 | 0.742 | 1.7 | 5.28 | 7.32 |
+| `6a38c0b` | stream | 100000 | 120 | 0.4 | ok | sparse, both | 5.49 | 2.9 | 2.19 | 5.41 | 8.98 | 14.8 |
+| `6a38c0b` | stream | 100000 | 120 | 1 | ok | sparse, adjoint | 6.46 | 3.58 | 2.56 | 6.53 | 17.1 | 14.9 |
 | `868c372` | gpu | 1000 | 120 | 0.4 | ok | sparse, both | 1.46 | 0.0585 | 0.0271 | 0.0807 | 3.01 | 1.34 |
 | `868c372` | gpu | 3000 | 120 | 0.4 | ok | sparse, both | 1.66 | 0.102 | 0.0582 | 0.159 | 3.43 | 1.68 |
 | `868c372` | gpu | 10000 | 64 | 0.4 | ok | sparse, both | 1.39 | 0.124 | 0.0815 | 0.211 | 2.54 | 1.3 |
@@ -805,4 +985,4 @@ Seconds per FISTA iteration (and how the PF matrix was applied: dense; sparse wi
 
 </details>
 
-Results files: `2026-10-02_1026_A40_n-62-18-4.jsonl`, `2026-10-02_1251_A40_n-62-18-4.jsonl`, `2026-10-02_1310_A40_n-62-18-4.jsonl`, `2026-10-02_1344_A40_n-62-18-4.jsonl`, `2026-10-02_1420_A40_n-62-18-4.jsonl`, `2026-10-02_1503_A40_n-62-18-4.jsonl`, `2026-10-02_1530_A40_n-62-18-4.jsonl`, `2026-10-02_1607_A40_n-62-18-4.jsonl`, `2026-10-02_1637_A40_n-62-18-4.jsonl`, `2026-10-02_1722_A40_n-62-18-4.jsonl`, `2026-10-02_1759_A40_n-62-18-4.jsonl`, `2026-10-02_1844_A40_n-62-18-4.jsonl`, `2026-10-02_1913_A40_n-62-18-4.jsonl`, `2026-10-02_1922_A40_n-62-18-4.jsonl`
+Results files: `2026-10-02_1026_A40_n-62-18-4.jsonl`, `2026-10-02_1251_A40_n-62-18-4.jsonl`, `2026-10-02_1310_A40_n-62-18-4.jsonl`, `2026-10-02_1344_A40_n-62-18-4.jsonl`, `2026-10-02_1420_A40_n-62-18-4.jsonl`, `2026-10-02_1503_A40_n-62-18-4.jsonl`, `2026-10-02_1530_A40_n-62-18-4.jsonl`, `2026-10-02_1607_A40_n-62-18-4.jsonl`, `2026-10-02_1637_A40_n-62-18-4.jsonl`, `2026-10-02_1722_A40_n-62-18-4.jsonl`, `2026-10-02_1759_A40_n-62-18-4.jsonl`, `2026-10-02_1844_A40_n-62-18-4.jsonl`, `2026-10-02_1913_A40_n-62-18-4.jsonl`, `2026-10-02_1922_A40_n-62-18-4.jsonl`, `2026-10-29_1745_A40_n-62-18-4.jsonl`
